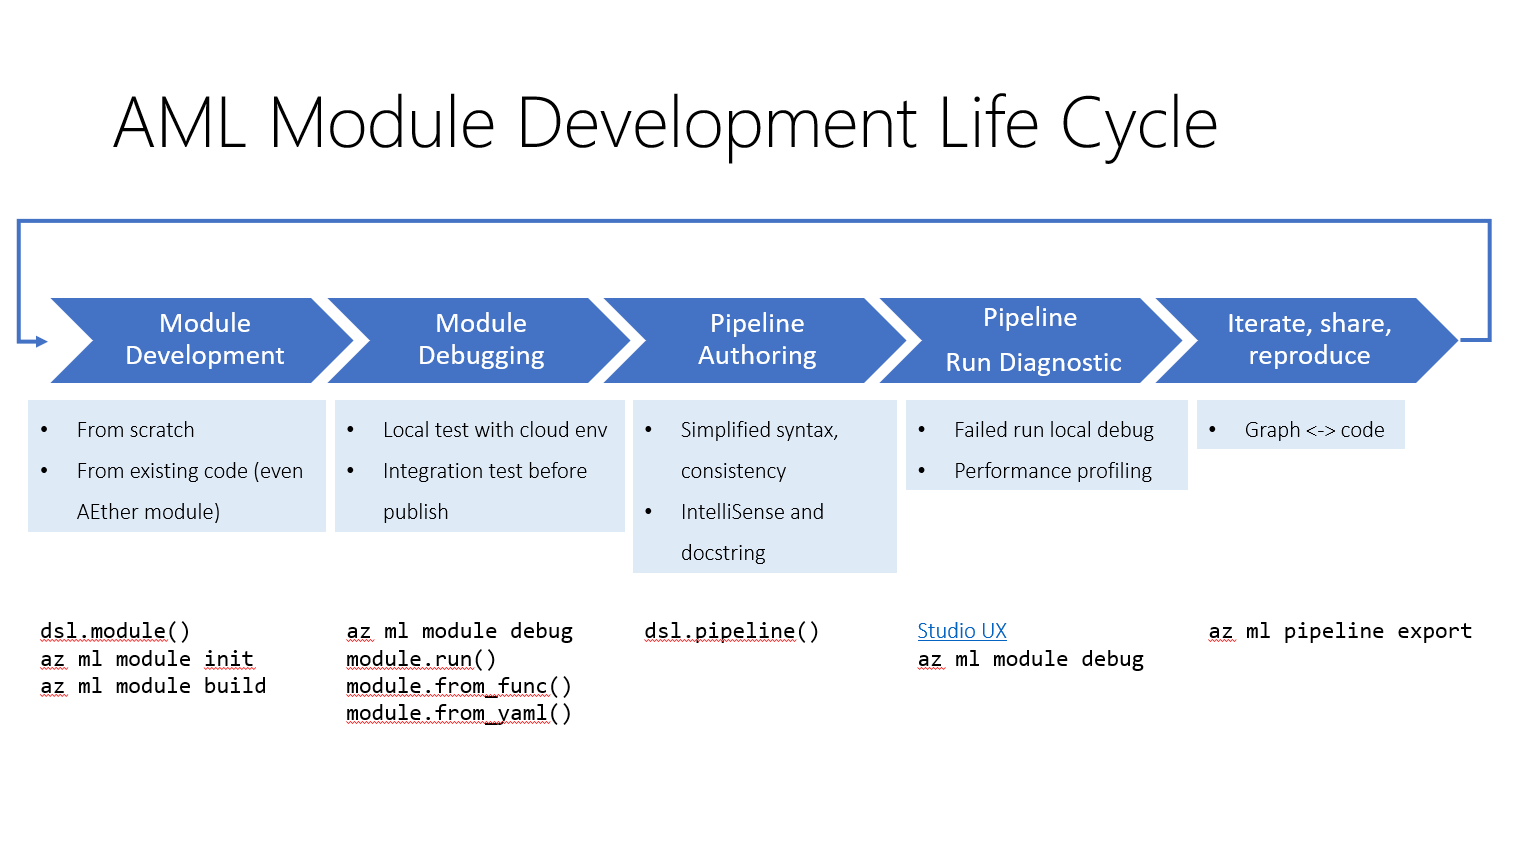
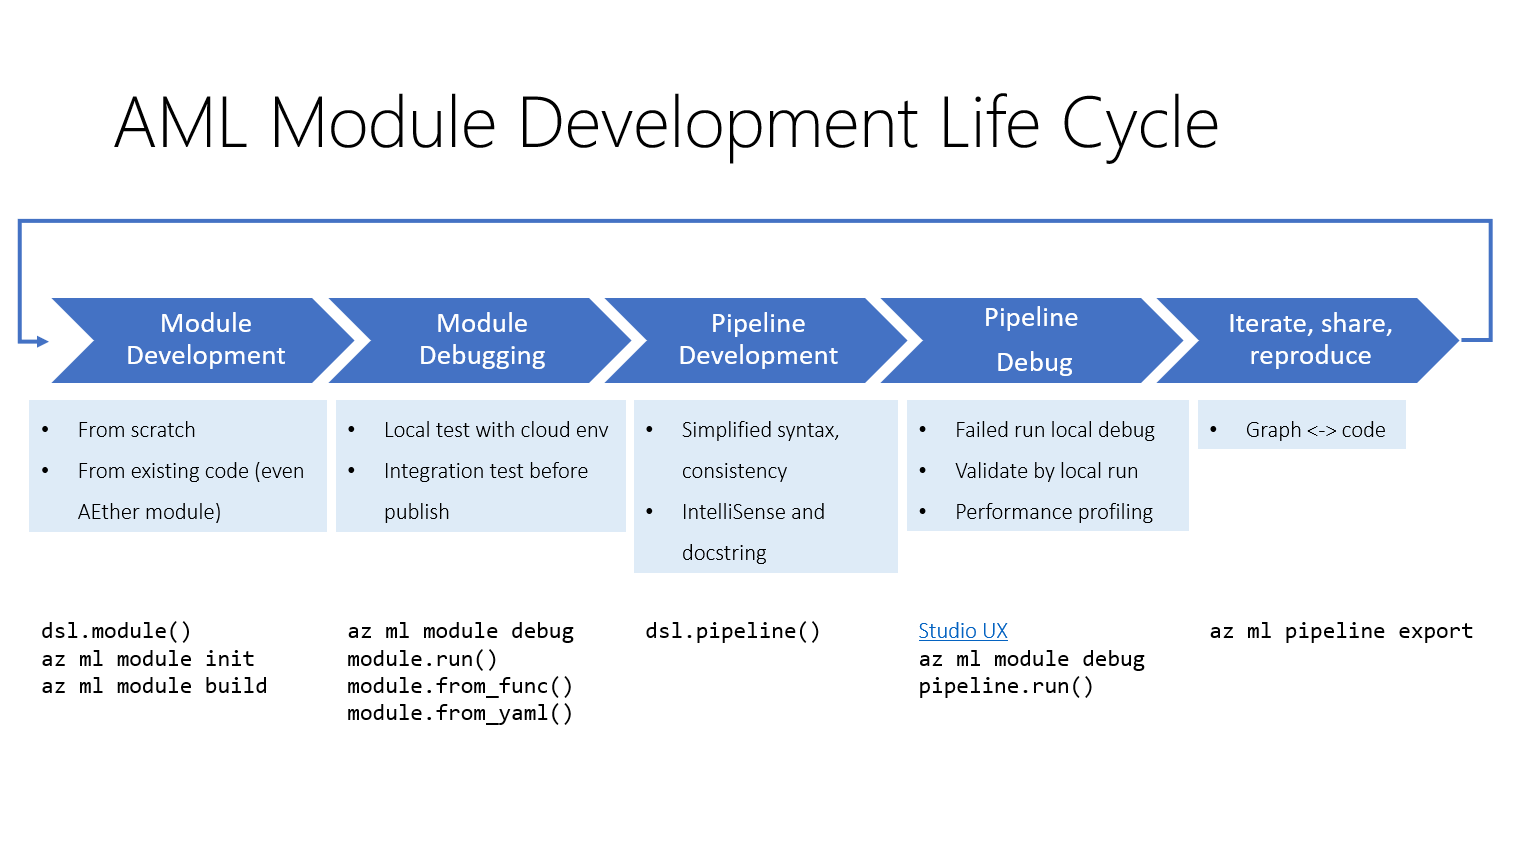
update module overview

diff --git a/modules/gdal_sample/gdal_sample.py b/modules/gdal_sample/gdal_sample.py
@@ -1,35 +1,34 @@
 import sys
 from pathlib import Path
 import pandas as pd
-
-
-
 import rtree
 import gdal
+
+from azureml.pipeline.wrapper.dsl.module import ModuleExecutor, InputDirectory, OutputDirectory
+from azureml.studio.core.io.data_frame_directory import load_data_frame_from_directory
+from azureml.pipeline.wrapper import dsl
+
 
 
 gdal_version_num = int(gdal.VersionInfo('VERSION_NUM'))
 print(f'gdal version number is {gdal_version_num}.')
 
 
-from azureml.pipeline.wrapper.dsl.module import ModuleExecutor, InputDirectory, OutputDirectory
-from azureml.studio.core.io.data_frame_directory import load_data_frame_from_directory
-from azureml.pipeline.wrapper import dsl
-
 @dsl.module(
     name="gdal_sample"
 )
 def gdal_sample(
+    ##define interface(input, output, paratmers) of the module here 
         output_dir1: OutputDirectory(),
         output_dir2: OutputDirectory(),
         input_dir1: InputDirectory(),
         input_dir2: InputDirectory()
 ):
-    print('module definition')
+    print('I am in module definition')
     print(f'input_dir1: {Path(input_dir1).resolve()}')
     print(f'input_dir2: {Path(input_dir2).resolve()}')
    
-
+   ## add custom logic here
     
     dfd1 = load_data_frame_from_directory(input_dir1)
     data_frame1 = dfd1.data

diff --git a/module-overview.md b/module-overview.md
@@ -1,64 +1,123 @@
-# Module overview
+# Module development overview
+
+In this article you will learn how to develop an Azure Machine Learning module.
 
 ## Overview of pipeline and module
 
-A pipeline is a description of a machine learning (ML) workflow, including all of the modules of the workflow and how they work together. The pipeline includes the definition of the inputs (parameters) required to run the pipeline and the inputs and outputs of each module.
+A pipeline is a description of a machine learning (ML) workflow, including all of the tasks(modules) of the workflow and how they work together. 
 
-A module is an implementation of a pipeline task. A module represents a step in the workflow. Each module takes one or more inputs and may produce one or more outputs. A module consists of an interface (inputs/outputs), the implementation (source code, command-line arguments and environment to run the module ) and metadata (name, description).
-
-Azure machine learning modules can be reused across multiple projects and AML workspace. This is achieved through module specification in YAML format, which describes all information(source code, environment, interface) needed to reproduce the module. A module is attached to a workspace through register with module YAML spec. After registeration, customer can consume the module in designer UI. 
+A module is an implementation of a pipeline task. A module represents a step in the workflow. Each module takes one or more inputs and may produce one or more outputs. A module consists of an interface (inputs/outputs), the implementation (source code, command-line arguments and environment) and metadata (name, description).
 
 
+A few terminology you will see: 
 
-## Module & pipeline development lifecycle
-Module & pipeline development is an iterative process. It includes build module, test module, build pipeline, test pipeline and share/reuse. We have provide several CLI commands and SDK functions to boost the efficiency in the development lifecycle.
+|Terminology|Description|
+| -----------| ----------- |
+|YAML spec| Module specification in YAML format. It describes all information (interface, implementation, metadata) needed to reproduce a module. YAML spec is needed when register the module to an AML workspace. See example [here](https://github.com/Azure/DesignerPrivatePreviewFeatures/blob/master/azureml-modules/docs/module-spec-definition.md).|
+|dsl module|A module wrapped by dsl decorator. By using dsl decorator, it's easier to interact with the module. And some module development feature is build on top dsl module. See example [here](). |
+|dsl pipeline|A pipeline wrapped by dsl decorator. By using dsl pipeline, it's easier to interact with the pipeline. We recommend to use dsl pipeline to define your pipeline. See example [here](). |
+
+
+
+
+## Module/Pipeline development lifecycle
+Module and pipeline development is an iterative process. It includes build module, test module, build pipeline, test pipeline and share/reuse. We have provide several CLI commands and SDK functions to boost the efficiency in the development lifecycle.
 
 ![module-management-lifecycle](./modules/media/module-lifecycle.png)
 
 ### Module development
 
-[video-how-to-build-new-module]()
-
-[sample-notebook]()
-
+#### Feature overview
 
 |CLI Command|Purpose|
 | -----------| ----------- |
 |az ml module init| Initialize a template dsl module project. The template contains following useful files in module development process. <br /> - module_name.py: module source code template <br /> - module_name.spec.yaml: module spec in yaml format. Needed to register the module. <br /> - module_name_test.ipynb: template test notebook for the module <br /> - module_name_test.py: unit test template for the module  |
 |az ml module build|Automatically build yaml spec from source code that wrapped as dsl module. With this command, customer don't need to edit the yaml spec manually. |
 
+#### Video
+
+[video-how-to-build-new-module]()
+
+#### Sample Notebook
+
+[sample-notebook]()
 
 
-### Debug module
-[video-how-to-debug-module]()
 
+
+### Module debug
+
+
+#### Feature overview
 |CLI Command|Purpose|
 | -----------| ----------- |
-|az ml module debug||
+|az ml module debug|Debug a module by running it in local container, in which customer can use local debug tools, for example VSCode debugger. Use it in following scenario: <br />  - A module failed in remote run. This command will pull down the image from cloud to debug locally.  <br />  - Test a module with cloud environment before submit to remote run. This command can run a not registered module in local container.|
 
 |SDK function|Purpose|
 | -----------| ----------- |
-|module.from_func|Load module from a function. Then you can run the module without register it to workspace.|
-|module.from_yaml|Load module from yaml spec. Then you can run the module without register it to workspace. |
+|module.from_func|Load module from a python function. Then you can run the module in local to test.|
+|module.from_yaml|Load module from yaml spec. Then you can run the module in local to test. |
 |module.run|Run module in your local Python environment or local docker container.|
 
+#### Video
 
+[video-how-to-debug-module]()
+
+
+#### Sample notebook
+
+[sample-notebook]()
 
 
 
 ### Build pipeline
+
+#### Feature overview
+
+Module SDK provide dsl pipeline wrapper to make it easier to build and interact with pipeline. 
+
+#### Video 
+
 [video-how-to-build-pipeline-with-module]()
 
-dsl.pipeline()
+#### Sample notebooks
+
+[build-pipeline-basic](https://github.com/Azure/DesignerPrivatePreviewFeatures/blob/sdkpreview/azureml-modules/samples/get-started.ipynb)
+
+[create-pipeline-with-subpipeline](https://github.com/Azure/DesignerPrivatePreviewFeatures/blob/sdkpreview/azureml-modules/samples/create-pipeline-with-subpipeline.ipynb)
+
+[showcasing-dataset-and-pipeline-parameter](https://github.com/Azure/DesignerPrivatePreviewFeatures/blob/sdkpreview/azureml-modules/samples/showcasing-dataset-and-pipelineparameter.ipynb)
+
+[setup-versioned-pipeline-endpoints](https://github.com/Azure/DesignerPrivatePreviewFeatures/blob/sdkpreview/azureml-modules/samples/setup-versioned-pipeline-endpoints.ipynb)
+
+
 
 ### Debug pipeline
+#### Feature overview
+|SDK function|Purpose|
+| -----------| ----------- |
+|pipeline.run|It's a light-weight orchestrator in local. In particularly it does following things under the hook: <br /> -  Download remote dataset to local <br /> - Pickup nodes which dependencies are ready, e.g. firstly with nodes that has no dependency node  <br /> - Send the picked nodes in a thread pool (size depends on number of processors on machine by default, user can specify this by max_workers parameter)  <br /> - Execute each node using module.run, which will be executing in separate container/process  <br /> - When node complete, will pickup next ready nodes in downstream to execute, until all nodes in the pipeline complete
+|
+
+
+#### Video
 [video-how-to-debug-pipeline]()
 
-pipeline.run()
+#### Sample notebook
+
+
+[sample-notebook]()
+
 
 ### Share and resue
+
+
+#### Feature overview
+|CLI command|Purpose|
+| -----------| ----------- |
+|az ml module register|Register a module to an AML workspace. After registration, the module will be shared to all users that have access to the workspace. An it can be consumed both from [AML Designer UI](https://ml.azure.com/) and SDK.|
+|az ml pipeline export|Export a pipeline graph to code. See sample [here](). |
+
+
+#### Video
 [video-how-share-reuse-module]()
-
-az ml pipeline export
-
-Designer UX 
